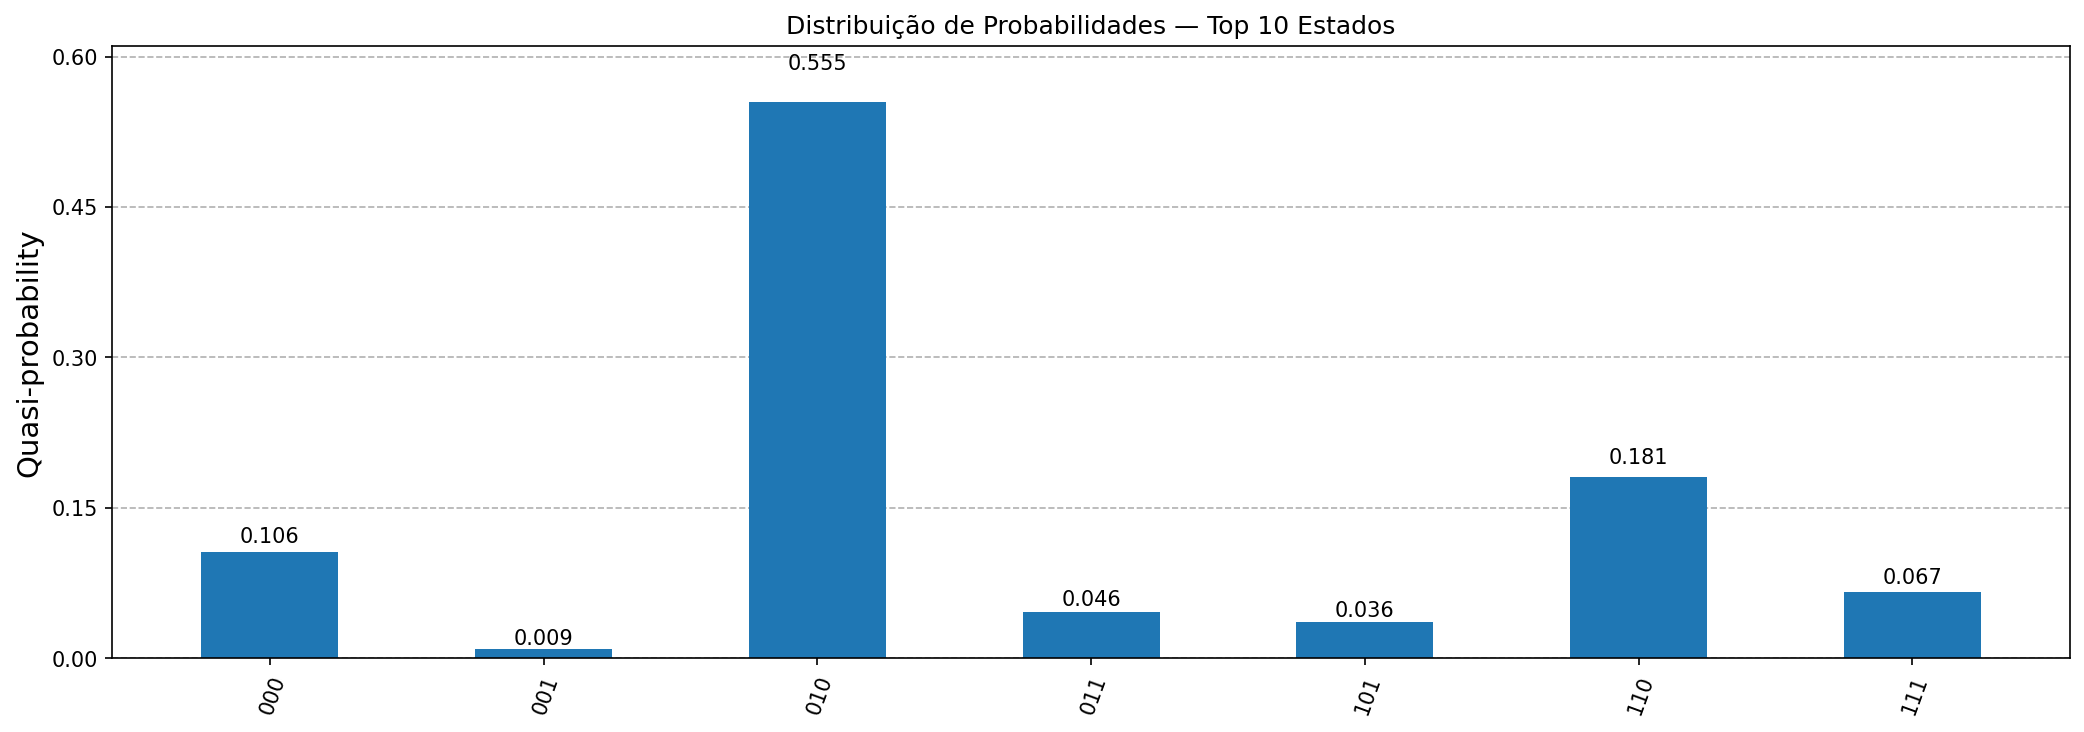
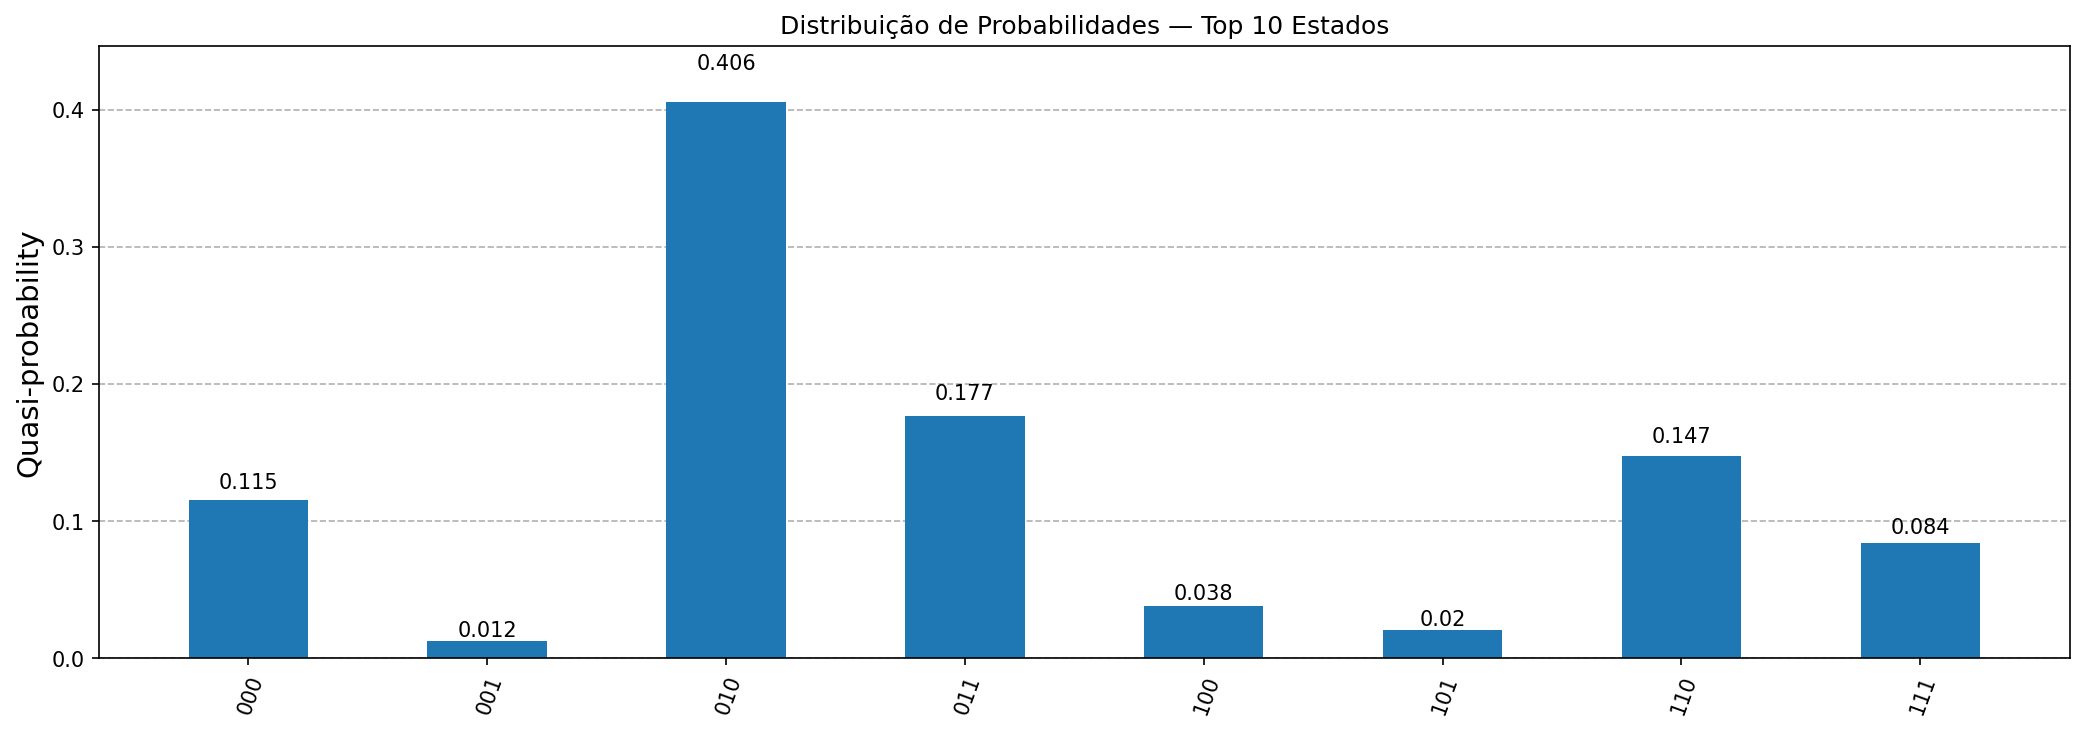
Alter
alteracao solvers

diff --git a/08_algoritimos_quanticos/hands_on/02/solvers.py b/08_algoritimos_quanticos/hands_on/02/solvers.py
@@ -1,11 +1,11 @@
 # =============================================================================
 # UNIVERSIDADE SENAI CIMATEC — Hands-On 02: QAOA para TSP
-# solvers.py — Solvers atualizados com Mixer XY para preservação de Hamming
+# solvers.py — Versão Otimizada para Google Colab (AerSampler + MPS)
 # =============================================================================
 
 import time
 import numpy as np
-from qiskit.primitives import StatevectorSampler
+from qiskit_aer.primitives import Sampler as AerSampler  # Otimizado para RAM
 from qiskit.quantum_info import SparsePauliOp
 from qiskit_optimization.algorithms import MinimumEigenOptimizer
 from qiskit_optimization.converters import QuadraticProgramToQubo
@@ -24,10 +24,8 @@ def create_xy_mixer(n_qubits):
     """
     Cria um Mixer XY (Parity-Preserving).
     Implementa a soma de operadores (XX + YY) entre qubits vizinhos lineares.
-    Isso ajuda a manter o peso de Hamming (número de arestas ligadas).
     """
     ops = []
-    # Conectividade linear para o mixer (i -> i+1)
     for i in range(n_qubits - 1):
         # Termo XX
         x_list = ["I"] * n_qubits
@@ -53,17 +51,17 @@ def solve_classical(qp):
 
 def solve_qaoa(qp, reps: int = QAOA_REPS, maxiter: int = QAOA_MAXITER):
     """
-    Resolve o TSP usando QAOA com Mixer XY e StatevectorSampler (V2).
+    Resolve o TSP usando QAOA com Mixer XY e AerSampler (Otimizado).
+    O método 'matrix_product_state' evita o estouro de memória no Colab.
     """
     qubo      = _to_qubo(qp)
-    # CORREÇÃO: QuadraticProgram usa get_num_vars() ou len(variables)
     n_qubits  = qubo.get_num_vars() 
     
-    sampler   = StatevectorSampler()
-    optimizer = COBYLA(maxiter=maxiter)
+    # AJUSTE PARA COLAB: Usando AerSampler com compressão de estado (MPS)
+    sampler = AerSampler(run_options={"method": "matrix_product_state"})
     
-    # Criando o Mixer customizado
-    mixer_op = create_xy_mixer(n_qubits)
+    optimizer = COBYLA(maxiter=maxiter)
+    mixer_op  = create_xy_mixer(n_qubits)
     
     qaoa      = QAOA(sampler=sampler, 
                      optimizer=optimizer, 
